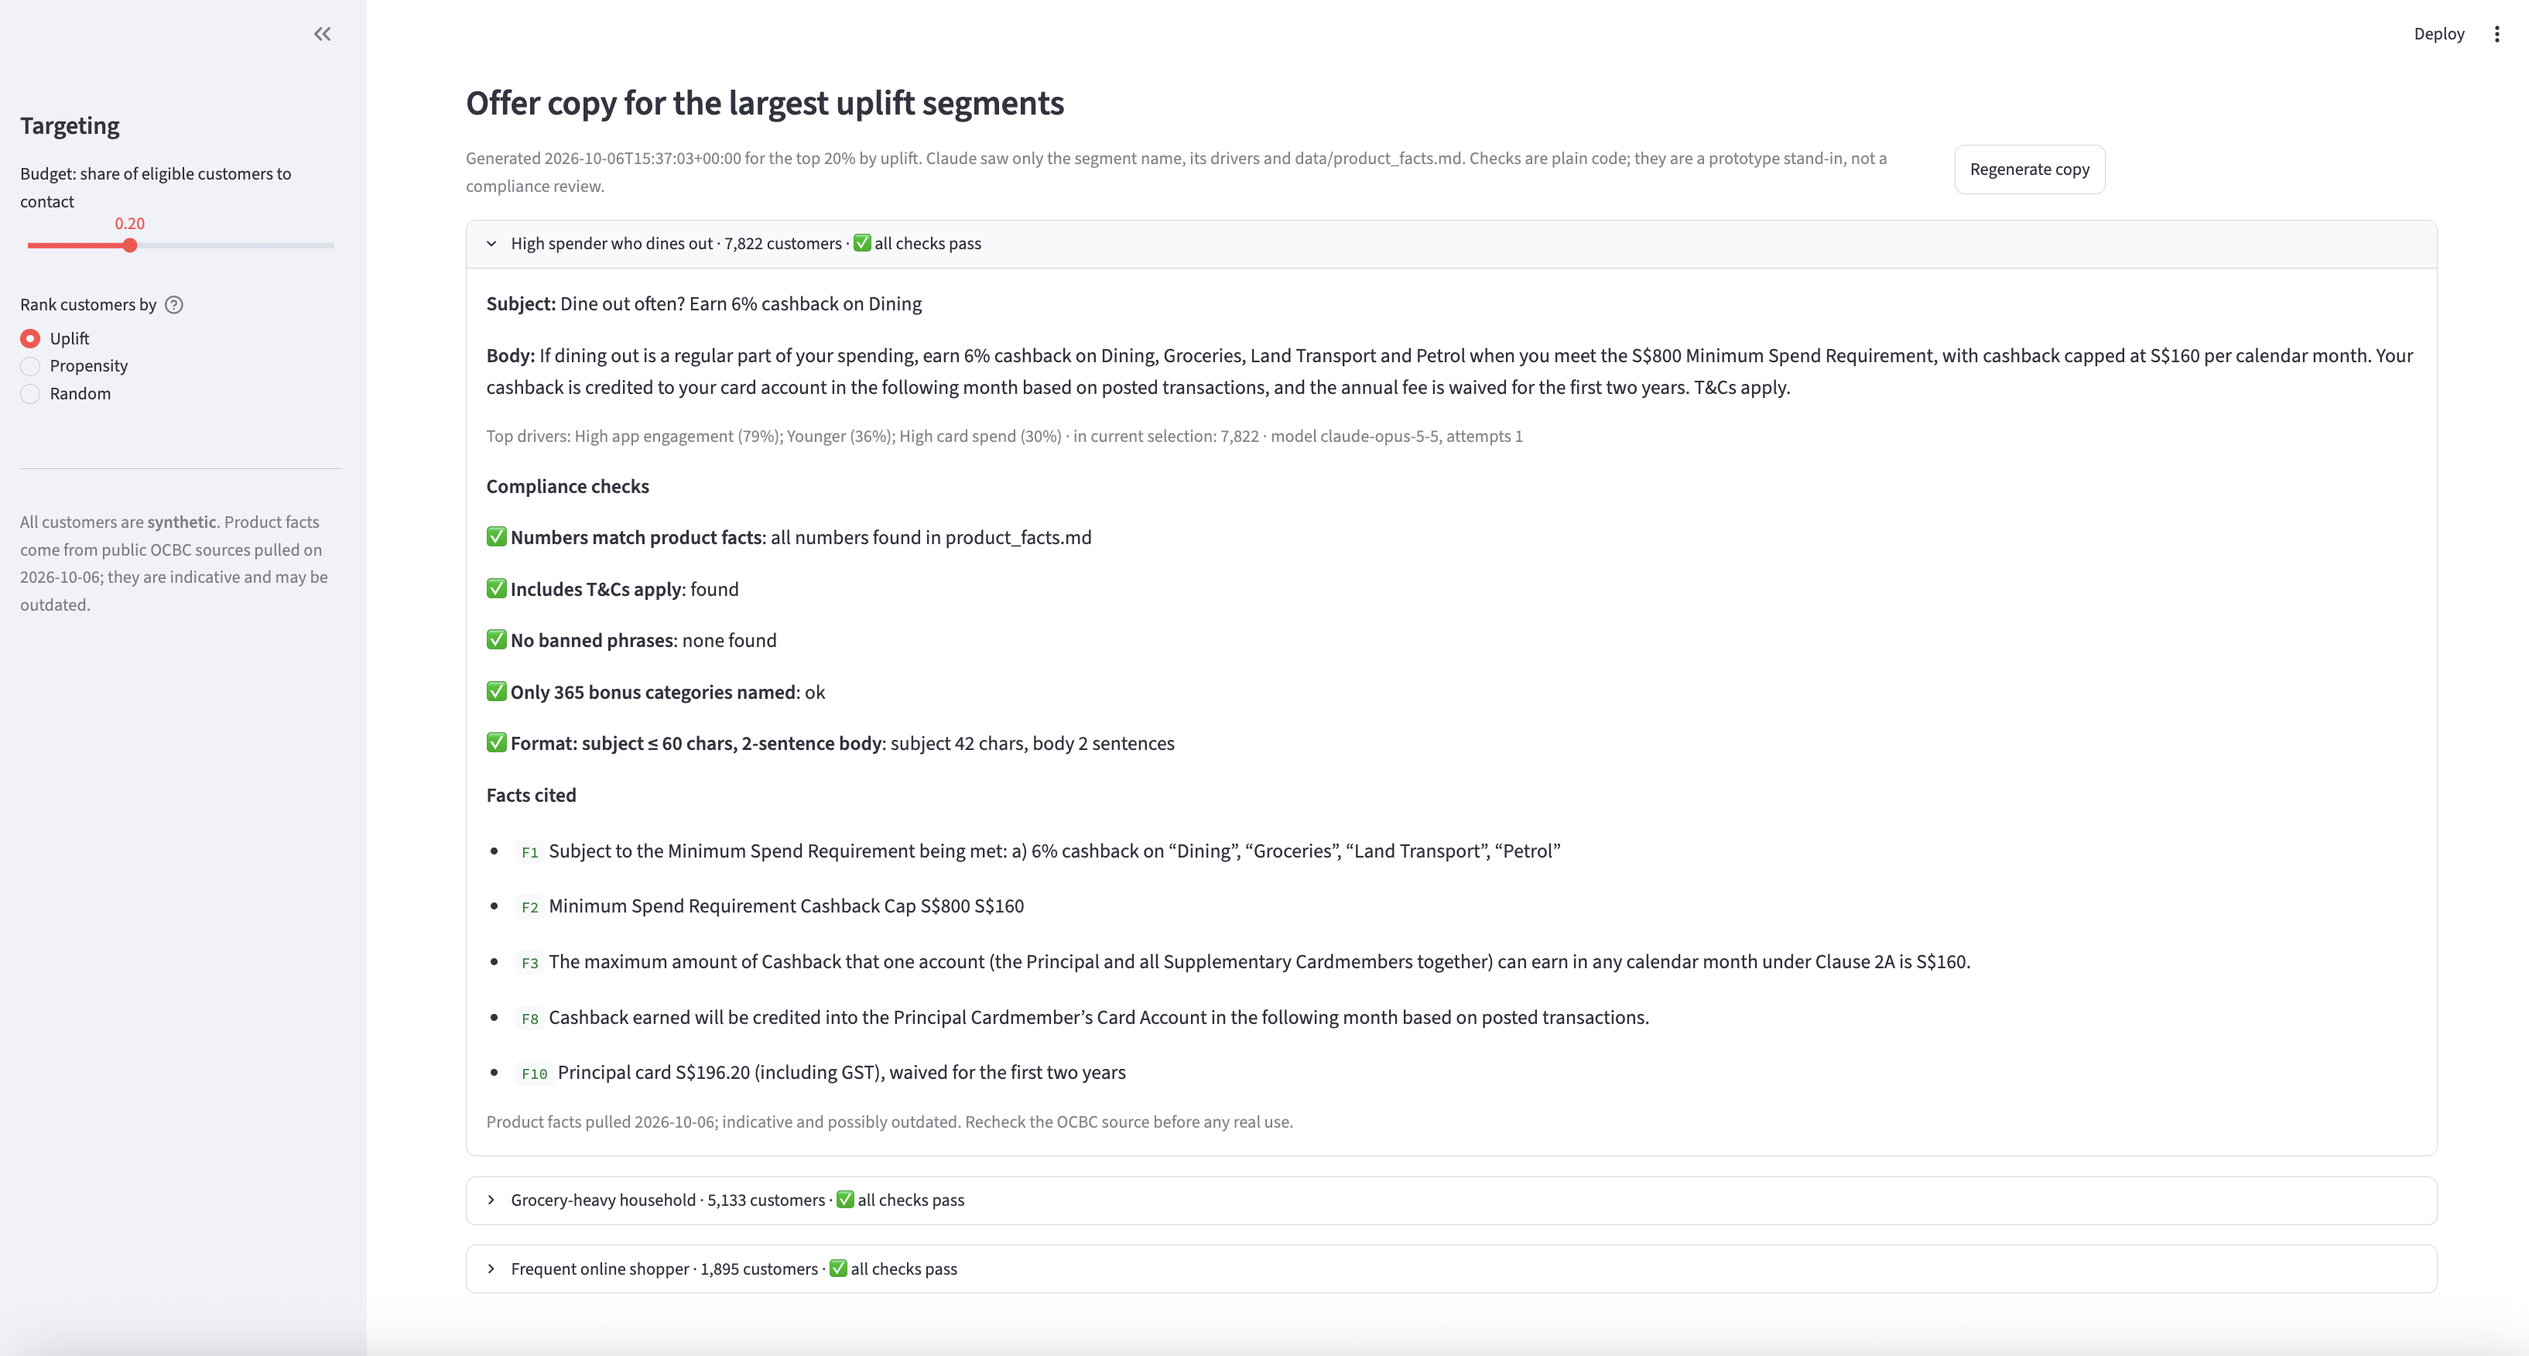
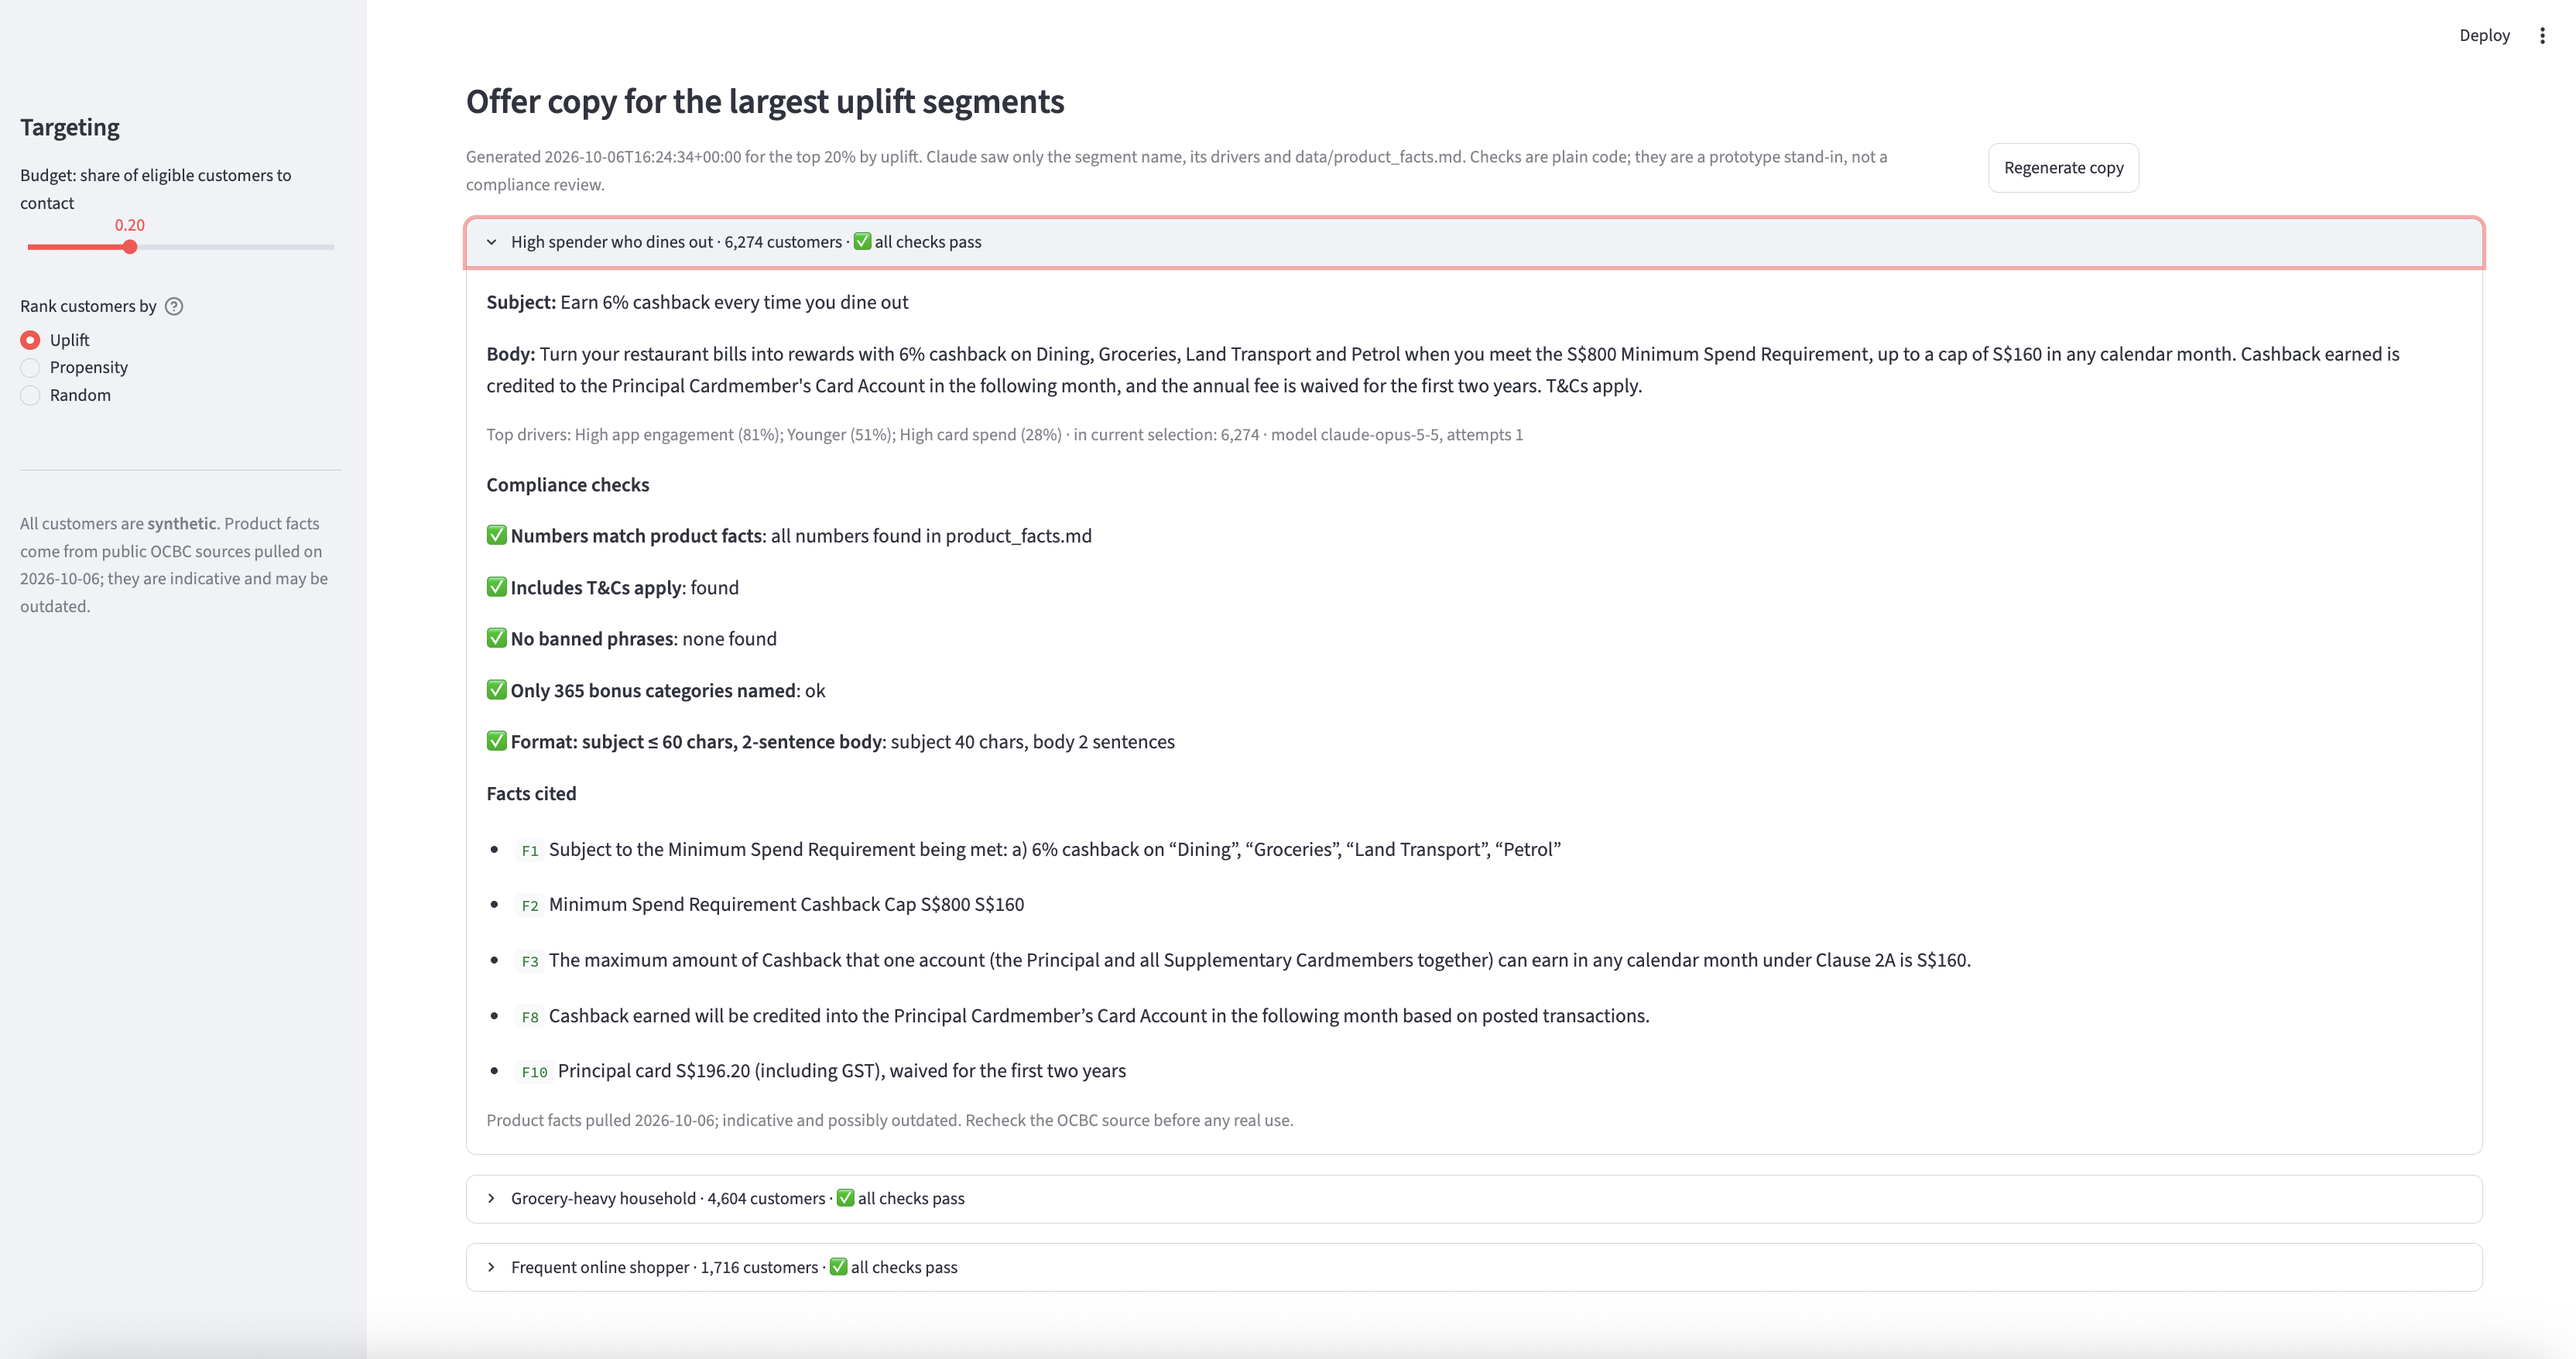
Refresh screenshots after opt-in filter

diff --git a/HANDOFF.md b/HANDOFF.md
@@ -68,8 +68,6 @@ install poppler) and stops if any fact no longer matches its source word for wor
   budget or strategy.
 - **Testing.** There are 3 guardrail tests in `tests/`, not a full suite. The app was checked with Streamlit's
   `AppTest` (normal, no saved copy, bad key), but those checks aren't automated.
-- **Screenshots** in `docs/screenshots/` predate the opt-in filter, so their numbers (e.g. 15,231 targeted) are from
-  before it.
 
 ## To productionise
 1. **Data:** a real randomised past campaign (or a fresh test cell), a feature store with point-in-time features, and

diff --git a/README.md b/README.md
@@ -20,7 +20,7 @@ product facts, and plain-code compliance checks run on every draft. Every score 
 
 **Propensity ranking at a 40% budget.** High propensity, but often little or negative uplift:
 
-![Propensity ranking at 40%: tiles, comparison chart and targeted customers](docs/screenshots/propensity.png)
+![Propensity ranking at 40%: tiles, comparison chart and targeted customers](docs/screenshots/propensity_higherbudget.png)
 
 **Offer copy for one segment**, with each compliance check and the cited facts:
 
